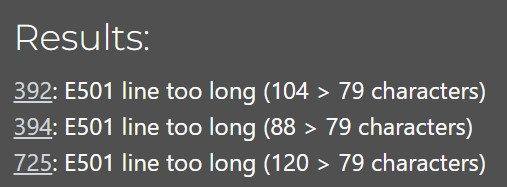
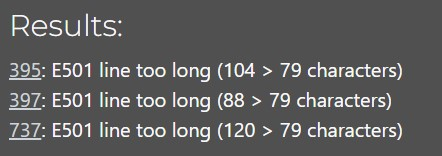
Update formating and readme linter test

diff --git a/run.py b/run.py
@@ -249,21 +249,22 @@ def add_oil():
                        "Type Yes or No: \n")
         if re_run.lower() == "no":
             while True:
-                main_menu = input(colorama.Style.RESET_ALL + colorama.Fore.WHITE +
-                                "\nDo you want to exit to main menu? "
-                                "Type Yes if you want to return to main. "
-                                "Otherwise type No to exit program: \n")
+                main_menu = input(colorama.Style.RESET_ALL +
+                                  colorama.Fore.WHITE +
+                                  "\nDo you want to exit to main menu? "
+                                  "Type Yes if you want to return to main. "
+                                  "Otherwise type No to exit program: \n")
                 if main_menu.lower() == "yes":
                     main()
                 elif main_menu.lower() == "no":
                     print(colorama.Fore.RED + colorama.Style.BRIGHT +
-                        "\nNow exiting program!\n")
+                          "\nNow exiting program!\n")
                     exit()
                 else:
                     print(colorama.Fore.RED + colorama.Style.BRIGHT +
-                        "\nYou have not selected a valid option. "
-                        "Your answer should be either 'Yes' or 'No'. "
-                        "Please resubmit your answer.\n")
+                          "\nYou have not selected a valid option. "
+                          "Your answer should be either 'Yes' or 'No'. "
+                          "Please resubmit your answer.\n")
                     continue
         elif re_run.lower() == "yes":
             add_oil()
@@ -477,7 +478,8 @@ def find_store_oils():
                   "We couldn`t find any result matching "
                   "your search criteria. Please search again.\n")
         new_search = input(colorama.Style.RESET_ALL + colorama.Fore.WHITE +
-                           "\nDo you want to run a new search? Type Yes/No: \n")
+                           "\nDo you want to run a new search? "
+                           "Type Yes/No: \n")
         while True:
             if new_search.lower() not in ["yes", "no"]:
                 print(colorama.Fore.RED + colorama.Style.BRIGHT +
@@ -533,7 +535,8 @@ def modify_oil():
     worksheet = SHEET.worksheet(worksheet_id)
     all_oils = worksheet.get_all_records()
     oil_name = input(colorama.Style.RESET_ALL + colorama.Fore.WHITE +
-                     "\nEnter the name of the oil you want to modify: ").strip()
+                     "\nEnter the name of the oil "
+                     "you want to modify: ").strip()
     existing_oil = None
     for index, oil in enumerate(all_oils, start=2):
         if oil["Oil Name"].lower() == oil_name.lower():
@@ -557,7 +560,8 @@ def modify_oil():
             try:
                 price = float(input(colorama.Style.RESET_ALL +
                                     colorama.Fore.WHITE +
-                                    "\nEnter the updated Euro price value: \n"))
+                                    "\nEnter the updated Euro "
+                                    "price value: \n"))
                 break
             except ValueError:
                 print(colorama.Fore.RED + colorama.Style.BRIGHT +
@@ -630,10 +634,11 @@ def modify_oil():
                           "Your answer should be either 'Yes' or 'No'. "
                           "Please resubmit your answer.\n")
         else:
-                    print(colorama.Fore.RED + colorama.Style.BRIGHT +
-                          "\nYou have not selected a valid option. "
-                          "Your answer should be either 'Yes' or 'No'. "
-                          "Please resubmit your answer.\n")
+            print(colorama.Fore.RED + colorama.Style.BRIGHT +
+                  "\nYou have not selected a valid option. "
+                  "Your answer should be either 'Yes' or 'No'. "
+                  "Please resubmit your answer.\n")
+
 
 def list_patients():
     """
@@ -751,7 +756,8 @@ def search_patient():
                   "Please check that the name is spelled "
                   "correctly and search again.\n")
         new_search = input(colorama.Style.RESET_ALL + colorama.Fore.WHITE +
-                           "\nDo you want to run a new search? Type Yes/No: \n")
+                           "\nDo you want to run a new search? "
+                           "Type Yes/No: \n")
         while new_search.lower() not in ["yes", "no"]:
             print(colorama.Fore.RED + colorama.Style.BRIGHT +
                   "\nYou have not selected a valid option. "
@@ -765,21 +771,21 @@ def search_patient():
             """ Offers user the option to return to main menu"""
             while True:
                 main_menu = input(colorama.Style.RESET_ALL +
-                                colorama.Fore.WHITE +
-                                "\nDo you want to exit to main menu? "
-                                "Type Yes if you want to return to main. "
-                                "Otherwise type No to exit program: \n")
+                                  colorama.Fore.WHITE +
+                                  "\nDo you want to exit to main menu? "
+                                  "Type Yes if you want to return to main. "
+                                  "Otherwise type No to exit program: \n")
                 if main_menu.lower() == "yes":
                     main()
                 elif main_menu.lower() == "no":
                     print(colorama.Fore.RED + colorama.Style.BRIGHT +
-                        "\nNow exiting program!\n")
+                          "\nNow exiting program!\n")
                     exit()
                 else:
                     print(colorama.Fore.RED + colorama.Style.BRIGHT +
-                        "\nYou have not selected a valid option. "
-                        "Your answer should be either 'Yes' or 'No'. "
-                        "Please resubmit your answer.\n")
+                          "\nYou have not selected a valid option. "
+                          "Your answer should be either 'Yes' or 'No'. "
+                          "Please resubmit your answer.\n")
 
 
 def main():

diff --git a/README.md b/README.md
@@ -22,7 +22,7 @@ EssentialOils was born out of my wife`s necessity for a CRM - Client Relationshi
     * [Spellcheck](#spellcheck)
     * [Python](#python)
     * [Local functionality tests](#local-functionality-tests)
-    * [Fixed bugs](#fixed-bugs-and-current-errors)
+    * [Fixed bugs and known errors](#fixed-bugs-and-current-errors)
 * [Credits](#credits)
     * [Code Used](#code-used)
     * [Other Credits](#other-credits)
